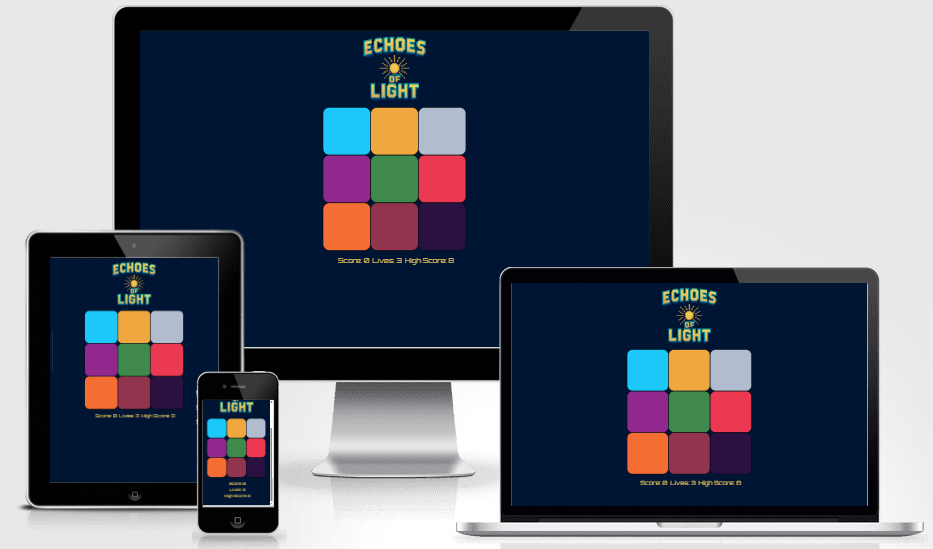
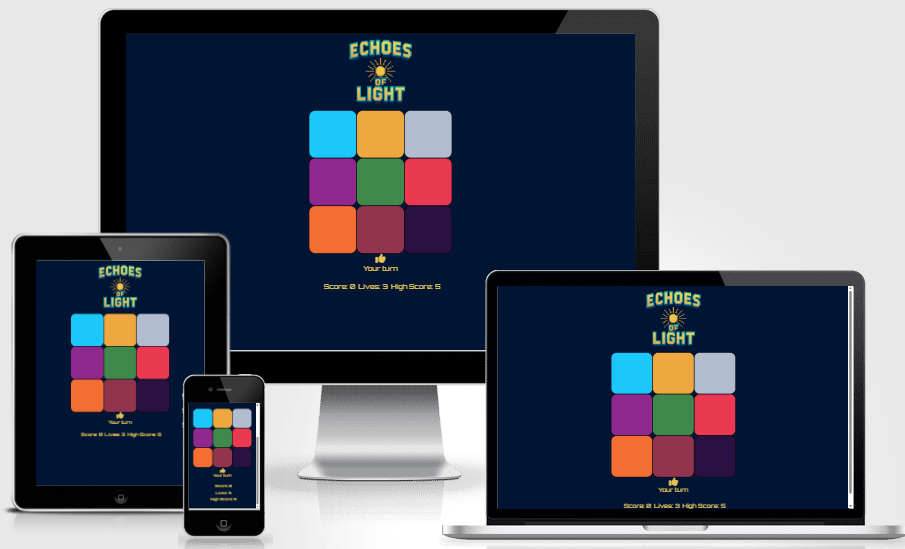
Changing the rules screen to include the new 'Your turn' and 'Computers turn' feature aswell as try to make the rules sound more fun and engaging

Changed region(s): [[0.0, 0.0, 1.0, 1.0]]

diff --git a/index.html b/index.html
@@ -84,13 +84,19 @@
             <h2>Rules</h2>
             <p>The rules for this game are simple.</p>
             <ul>
-                <li>The squares within the grid will light up in a random sequence.</li>
-                <li>Your task is to memorize this sequence and each turn relay it back by selecting the squares.</li>
-                <li>In this version you have three lives to start, if you fail to repeat the sequence correctly a life will be lost and the sequence will be replayed.</li>
-                <li>If your lives reach zero, you lose and will have to restart.</li>
-                <li>If you successfully relay the sequence then the game will progress to the next level.</li>
+                <li>To start, this message will be displayed below the grid: `<i class="fa-solid fa-thumbs-down fa-xl"></i>Computers turn`. That simply means sit tight while the computer displays the sequence.</li>
+                <li>The computer will <strong>flash</strong> a random square so watch carefully!</li>
+                <li>This message will then be displayed below the grid: `<i class="fa-solid fa-thumbs-up fa-xl"></i>Your turn`.</li>
+                <li>When that happens click on the <strong>same</strong> square that was lit up.</li>
+                <li>Get it right and the game moves to the next level.</li>
+                <li>Each level will add an extra square to the sequence, the higher your level the longer the sequence.</li>
+                <li>You get <strong>3 Lives</strong>. Mess up the pattern and you lose a life.</li>
+                <li>If your lives reach 0 its <strong>Game Over!</strong>.</li>
+                <li>At the end you can enter your name to see if you made it into the <strong>Top 10</strong>.</li>
+                <li>You think you can do it?</li>
+                <li>Go ahead and click the <Strong>Start</Strong> button below.</li>
+                <li>Good Luck!</li>
             </ul>
-            <p>Good Luck!</p>
             <div class="screen">
                 <button aria-label="start" class ="button btn btn-info" id="start2" onclick="startGame()">Start</button>
                 <button aria-label="leaderboard" class="button btn btn-info" id="leaderboard2" onclick="openLeaderboard()">Leaderboard</button>
